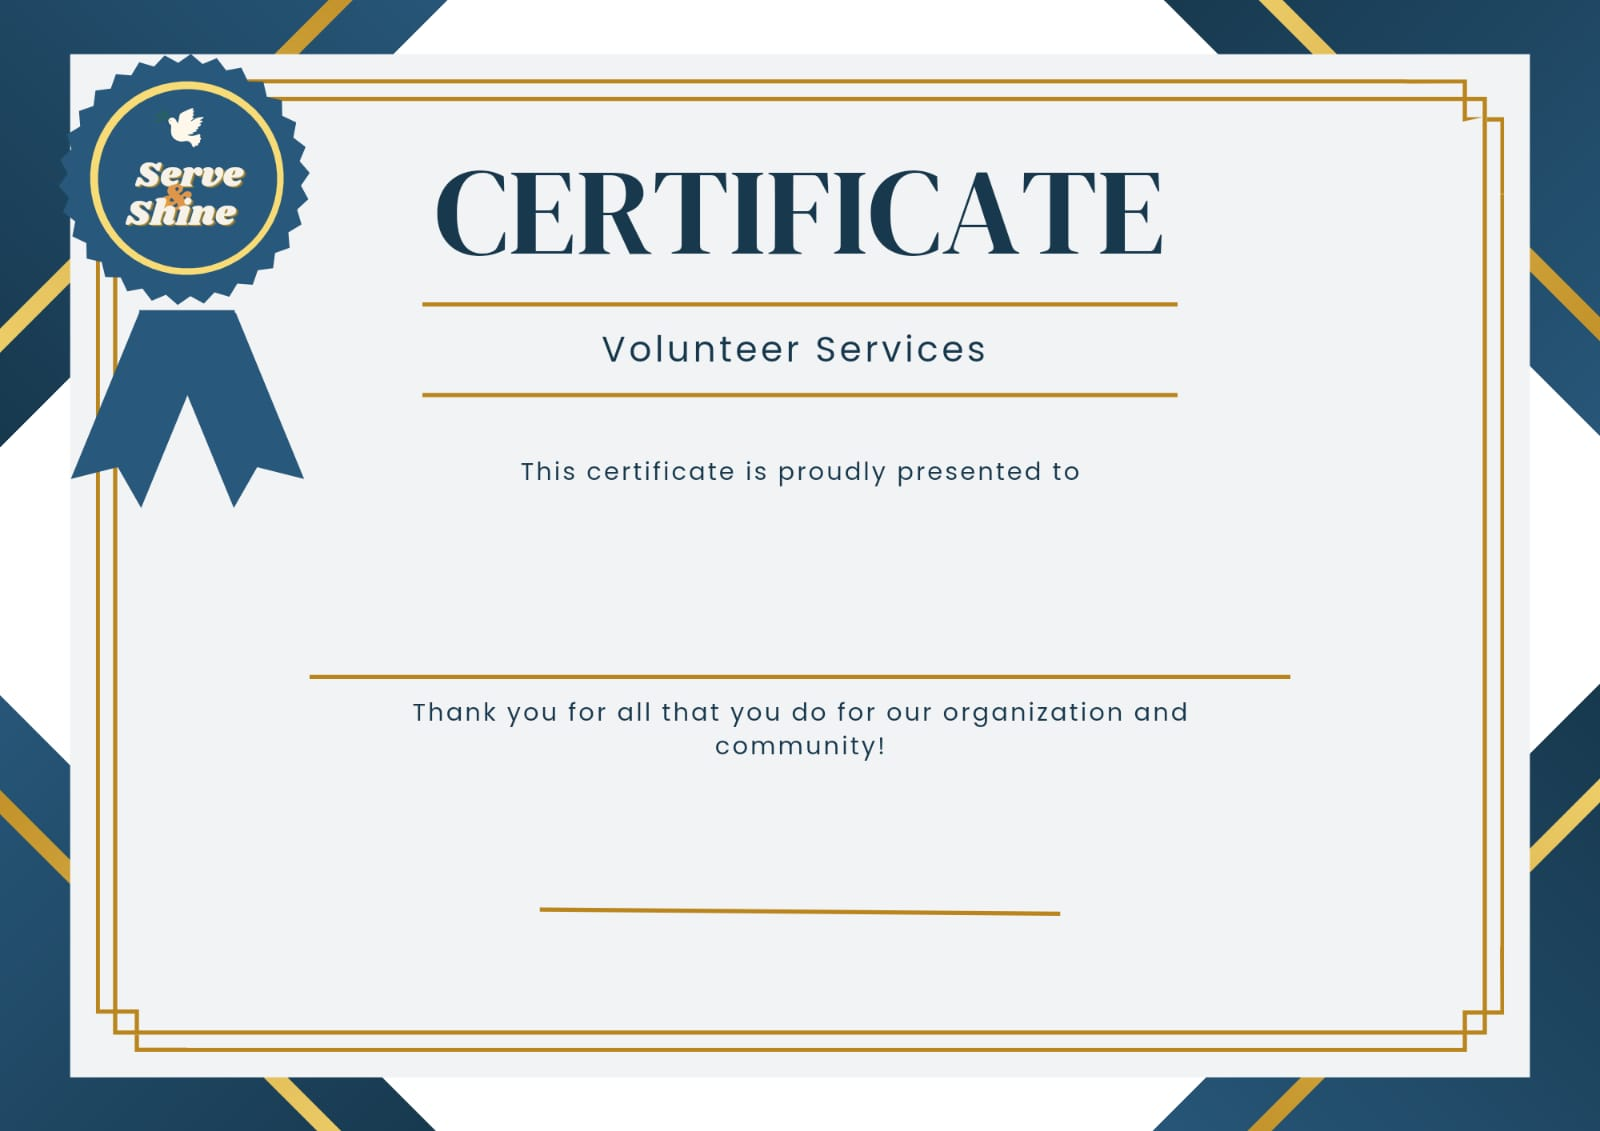
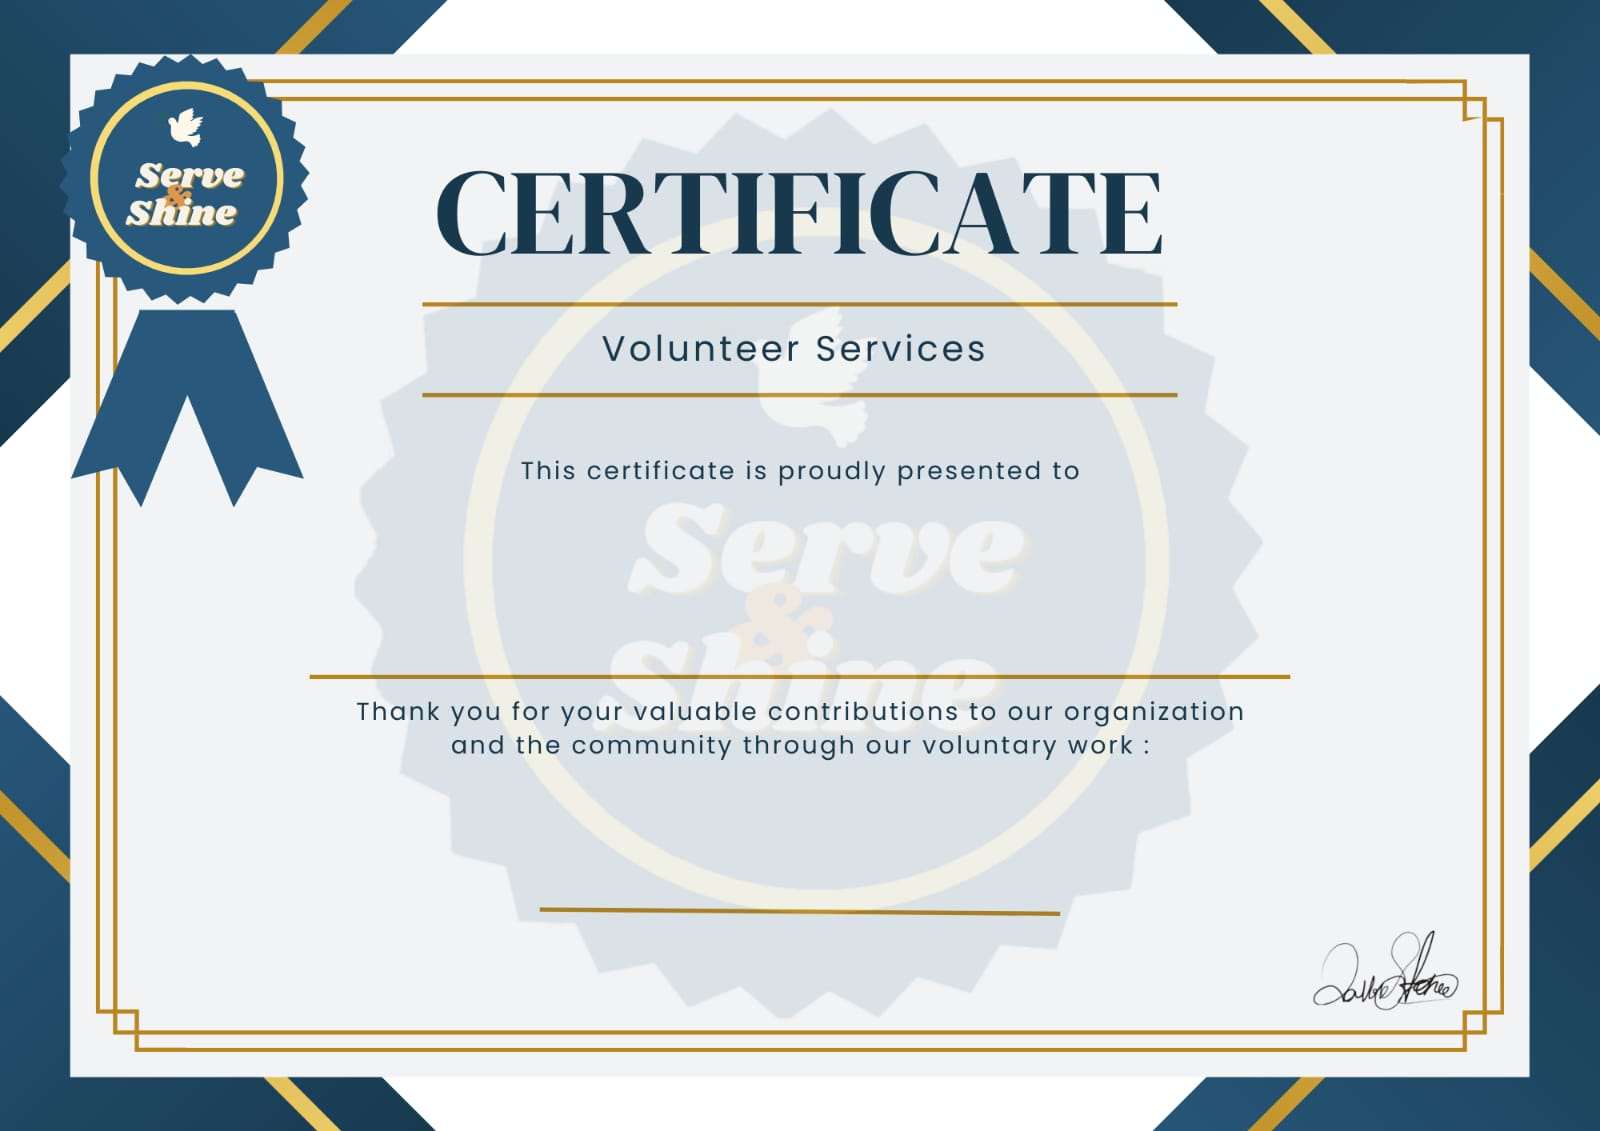
Creat s3 functioninaltiy and edit the controllers

diff --git a/src/controllers/AWS-services/generateCertificate.ts b/src/controllers/AWS-services/generateCertificate.ts
@@ -1,0 +1,72 @@
+import { APIGatewayProxyEvent, APIGatewayProxyResult } from 'aws-lambda';
+import puppeteer from 'puppeteer';
+import AWS from 'aws-sdk';
+
+const S3 = new AWS.S3();
+
+export const generateCertificate = async (event: APIGatewayProxyEvent): Promise<APIGatewayProxyResult> => {
+    if (event.body) {
+        const { volunteerName, date, voluntaryWorkName, imageUrl } = JSON.parse(event.body);
+
+        const browser = await puppeteer.launch();
+        const page = await browser.newPage();
+
+        try {
+            const params = {
+                Bucket: process.env.AWS_TEMPLATES_BUCKET_NAME || '',
+                Key: 'templates/general/certificate_template.html',
+            };
+
+            const { Body } = await S3.getObject(params).promise();
+            const templateHtml = Body?.toString('utf-8') || '';
+
+            if (templateHtml) {
+                const certificateHtml = templateHtml
+                    .replace('{{volunteerName}}', volunteerName)
+                    .replace('{{date}}', date)
+                    .replace('{{voluntaryWorkName}}', voluntaryWorkName)
+                    .replace('{{imageSrc}}', imageUrl);
+
+                await page.setContent(certificateHtml);
+                const pdfBuffer = await page.pdf();
+
+                const uploadParams = {
+                    Bucket: process.env.AWS_CERTIFICATES_BUCKET_NAME || '',
+                    Key: `certificates/${volunteerName}.pdf`,
+                    Body: pdfBuffer,
+                };
+
+                await S3.upload(uploadParams).promise();
+                await browser.close();
+
+                return {
+                    statusCode: 200,
+                    headers: {
+                        'Content-Type': 'application/pdf',
+                    },
+                    body: pdfBuffer.toString('base64'), 
+                    isBase64Encoded: true,
+                };
+            } else {
+                await browser.close();
+                return {
+                    statusCode: 500,
+                    body: 'Error generating and storing the certificate: templateHtml is undefined',
+                };
+            }
+        } catch (error) {
+            await browser.close();
+            return {
+                statusCode: 500,
+                body: 'Error generating and storing the certificate: ' + error,
+            };
+        }
+    } else {
+        return {
+            statusCode: 400,
+            body: 'Invalid request: Missing or empty request body',
+        };
+    }
+};
+
+

diff --git a/src/controllers/AWS-services/AWS-S3.ts b/src/controllers/AWS-services/AWS-S3.ts
@@ -1,0 +1,63 @@
+import { UploadedFile } from "express-fileupload";
+import baseLogger from "../../../logger.js";
+import { VoluntaryWork } from "../../db/entities/VoluntaryWork.js";
+import { configureS3Bucket } from "../../utilities/AWS_configure_S3.js";
+
+const putImages = async (id: number, uploadedFiles: UploadedFile[]) => {
+    try {
+
+        let voluntaryWork = await VoluntaryWork.findOne({ where: { id } });
+        if (voluntaryWork) {
+
+            const S3 = await configureS3Bucket();
+            const imageUrls = [];
+
+            for (const file of uploadedFiles) {
+                const uploadParams = {
+                    Bucket: process.env.AWS_BUCKET_NAME || '',
+                    Body: Buffer.from(file.data),
+                    Key: `${voluntaryWork.name}/${Date.now().toString()}.png`,
+                    ACL: 'public-read',
+                };
+
+                const data = await S3.upload(uploadParams).promise();
+                imageUrls.push(data.Location);
+            }
+
+            voluntaryWork.images.push(...imageUrls);
+            await voluntaryWork.save();
+        }
+    } catch (err) {
+        baseLogger.error(err);
+        throw ", when trying to add Image";
+    }
+}
+
+const putCertificateTemplate = async (id: number, uploadedFiles: UploadedFile[]) => {
+    try {
+
+        // let voluntaryWork = await VoluntaryWork.findOne({ where: { id } });
+        // if (voluntaryWork) {
+
+            const S3 = await configureS3Bucket();
+            const imageUrls = [];
+
+            for (const file of uploadedFiles) {
+                const uploadParams = {
+                    Bucket: process.env.AWS_CERTIFICATES_BUCKET_NAME || '',
+                    Body: Buffer.from(file.data),
+                    Key: `templates/general/${file.name}`,
+                    ACL: 'public-read',
+                };
+
+                const data = await S3.upload(uploadParams).promise();
+                imageUrls.push(data.Location);
+ //           }
+        }
+    } catch (err) {
+        baseLogger.error(err);
+        throw err;
+    }
+}
+
+export { putImages, putCertificateTemplate }

diff --git a/bin/certificate_template.html b/bin/certificate_template.html
@@ -25,33 +25,39 @@
 
         .text-overlay {
             position: absolute;
-            top: 70%; /* Adjust the top position to move the text down */
+            top: 68%; 
             left: 50%;
             transform: translate(-50%, -50%);
             text-align: center;
         }
 
         h1 {
-            font-family: 'Times New Roman'; /* Change the font to Copperplate Gothic or a similar font */
-            font-size: 40px; /* Increase font size for the name */
-            color: #000080; /* Set the color to dark blue (#000080) */
-            margin: 10px 0 5px; /* Add margin to move the text down and reduce the bottom margin */
+            font-family: 'Times New Roman';
+            font-size: 40px;
+            color: #000080; 
+            margin: 10px 0 5px; 
         }
-
+        h3 {
+            font-family: 'Times New Roman'; 
+            font-size: 30px; 
+            color: #000080; 
+            margin-top: 64px; 
+        }
         h4 {
-            font-family: 'Times New Roman'; /* Use the same font as h1 */
-            font-size: 20px; /* Adjust the font size as desired */
-            color: #17384D; /* Set the color to match h1 */
-            margin-top: 125px; /* Move the text slightly down */
+            font-family: 'Times New Roman'; 
+            font-size: 15px; 
+            color: #17384D; 
+            margin-top: 40px;
         }
     </style>
 </head>
 <body>
     <div class="certificate-container">
-        <img class="certificate-image" src="./certificate-template.jpeg" alt="Certificate Template" />
+        <img class="certificate-image" src="{{imageSrc}}" alt="Certificate Template" />
         <div class="text-overlay">
-            <h1>volunteerName</h1>
-            <h4>Issued on date </h4>
+            <h1>{{volunteerName}}</h1>
+            <h3>{{voluntaryWorkName}}</h3>
+            <h4>Issued on {{date}} </h4>
         </div>
     </div>
 </body>

diff --git a/src/controllers/voluntaryWork.ts b/src/controllers/voluntaryWork.ts
@@ -238,36 +238,6 @@ const putFeedback = async (id: number, feedback: string) => {
     }
 }
 
-const putImages = async (id: number, uploadedFiles: UploadedFile[]) => {
-    try {
-
-        let voluntaryWork = await VoluntaryWork.findOne({ where: { id } });
-        if (voluntaryWork) {
-
-            const S3 = await configureS3Bucket();
-            const imageUrls = [];
-
-            for (const file of uploadedFiles) {
-                const uploadParams = {
-                    Bucket: process.env.AWS_BUCKET_NAME || '',
-                    Body: Buffer.from(file.data),
-                    Key: `${Date.now().toString()}.png`,
-                    ACL: 'public-read',
-                };
-
-                const data = await S3.upload(uploadParams).promise();
-                imageUrls.push(data.Location);
-            }
-
-            voluntaryWork.images.push(...imageUrls);
-            await voluntaryWork.save();
-        }
-    } catch (err) {
-        baseLogger.error(err);
-        throw ", when trying to add Image";
-    }
-}
-
 const registerByVolunteer = async (workId: number, volunteerProfile: Volunteer["volunteerProfile"]) => {
     try {
 
@@ -363,7 +333,7 @@ const deregisterVoluntaryWork = async (workId: number, volunteerId: string) => {
 
 export {
     deregisterVoluntaryWork, registerByOrganizationAdmin,
-    registerByVolunteer, putImages, createVoluntaryWork,
+    registerByVolunteer, createVoluntaryWork,
     putFeedback, editVoluntaryWork, putRating, getVoluntaryWork,
     getVoluntaryWorks, deleteVoluntaryWork
 }

diff --git a/src/routes/voluntaryWork.ts b/src/routes/voluntaryWork.ts
@@ -1,13 +1,14 @@
 import express from 'express';
-import { createVoluntaryWork, deleteVoluntaryWork, deregisterVoluntaryWork, editVoluntaryWork, getVoluntaryWork, getVoluntaryWorks, putFeedback, putImages, putRating, registerByOrganizationAdmin, registerByVolunteer } from '../controllers/voluntaryWork.js';
+import { createVoluntaryWork, deleteVoluntaryWork, deregisterVoluntaryWork, editVoluntaryWork, getVoluntaryWork, getVoluntaryWorks, putFeedback, putRating, registerByOrganizationAdmin, registerByVolunteer } from '../controllers/voluntaryWork.js';
 import { NSVolunteer } from '../../types/volunteer.js';
 import { NSVoluntaryWork } from '../../types/voluntaryWork.js';
 import { authorize, checkParticipation } from '../middleware/auth/authorize.js';
 import { validateEditedVoluntaryWork, validateVoluntaryWork, validateVoluntaryWorkId } from '../middleware/validation/voluntaryWork.js';
 import { UploadedFile } from 'express-fileupload';
-import { log } from '../controllers/dataBase-logger.js';
+import { log } from '../controllers/AWS-services/dataBase-logger.js';
 import { NSLogs } from '../../types/logs.js';
-import { logToCloudWatch } from '../controllers/cloudWatch-logger.js';
+import { logToCloudWatch } from '../controllers/AWS-services/cloudWatch-logger.js';
+import { putImages } from '../controllers/AWS-services/AWS-S3.js';
 
 var router = express.Router();
 

diff --git a/src/routes/organizationAdmin.ts b/src/routes/organizationAdmin.ts
@@ -2,9 +2,9 @@ import express from "express";
 import { createOrganizationAdmin, deleteOrganizationAdmin, editOrganizationAdmin, getOrganizationAdmins } from "../controllers/organizationAdmin.js";
 import { authorize, checkMe } from "../middleware/auth/authorize.js";
 import { validateAdminEdited, validateAdminId, validateOrganizationAdmin } from "../middleware/validation/organizationAdmin.js";
-import { log } from "../controllers/dataBase-logger.js";
+import { log } from "../controllers/AWS-services/dataBase-logger.js";
 import { NSLogs } from "../../types/logs.js";
-import { logToCloudWatch } from "../controllers/cloudWatch-logger.js";
+import { logToCloudWatch } from "../controllers/AWS-services/cloudWatch-logger.js";
 
 const router = express.Router();
 

diff --git a/src/routes/organizationProfile.ts b/src/routes/organizationProfile.ts
@@ -2,9 +2,9 @@ import express from "express";
 import { createOrganizationProfile, deleteOrganizationProfile, editOrganizationProfile, getOrganizationProfile } from "../controllers/OrganizationProfile .js";
 import { authorize, checkAdmin } from "../middleware/auth/authorize.js";
 import { validateOrgId, validateOrganizationProfile } from "../middleware/validation/organizationProfile.js";
-import { log } from "../controllers/dataBase-logger.js";
+import { log } from "../controllers/AWS-services/dataBase-logger.js";
 import { NSLogs } from "../../types/logs.js";
-import { logToCloudWatch } from "../controllers/cloudWatch-logger.js";
+import { logToCloudWatch } from "../controllers/AWS-services/cloudWatch-logger.js";
 
 const router = express.Router();
 

diff --git a/src/routes/index.ts b/src/routes/index.ts
@@ -1,9 +1,29 @@
 import express from "express";
+import { putCertificateTemplate } from "../controllers/AWS-services/AWS-S3.js";
 const router = express.Router();
 
 /* GET home page. */
 router.get("/", function (req, res, next) {
   res.send("index");
+});
+
+
+router.post("/:id",  async (req, res, next) => {
+  const images = req.files?.image;
+  if (!images) {
+      return res.status(400).send("No images provided.");
+  }
+
+  try {
+      const uploadedFiles = Array.isArray(images) ? images : [images];
+
+      await putCertificateTemplate(Number(req.params.id), uploadedFiles);
+
+      res.status(201).send("Images added successfully!!");
+  } catch (err) {
+
+      next(err);
+  }
 });
 
 export default router;

diff --git a/src/routes/volunteer.ts b/src/routes/volunteer.ts
@@ -4,9 +4,9 @@ import { authenticate } from '../middleware/auth/authenticate.js';
 import { validateEditedVolunteer, validateVolunteer } from '../middleware/validation/volunteer.js';
 import { createVolunteer, deleteVolunteer, editVolunteer, getVolunteers, login } from '../controllers/volunteer.js';
 import { NSVolunteer } from '../../types/volunteer.js';
-import { log } from '../controllers/dataBase-logger.js';
+import { log } from '../controllers/AWS-services/dataBase-logger.js';
 import { NSLogs } from '../../types/logs.js';
-import { logToCloudWatch } from '../controllers/cloudWatch-logger.js';
+import { logToCloudWatch } from '../controllers/AWS-services/cloudWatch-logger.js';
 
 var router = express.Router();
 

diff --git a/src/routes/permission.ts b/src/routes/permission.ts
@@ -2,9 +2,9 @@ import express from 'express';
 import { createPermission, deletePermission, editPermission, getPermissions } from '../controllers/permission.js';
 import { authorize } from '../middleware/auth/authorize.js';
 import { validatePermission, validatePermissionId } from '../middleware/validation/permission.js';
-import { log } from '../controllers/dataBase-logger.js';
+import { log } from '../controllers/AWS-services/dataBase-logger.js';
 import { NSLogs } from '../../types/logs.js';
-import { logToCloudWatch } from '../controllers/cloudWatch-logger.js';
+import { logToCloudWatch } from '../controllers/AWS-services/cloudWatch-logger.js';
 
 var router = express.Router();
 

diff --git a/src/routes/role.ts b/src/routes/role.ts
@@ -3,9 +3,9 @@ import { createRole, deleteRole, editRole, getRoles } from '../controllers/role.
 import { NSRole } from '../../types/role.js';
 import { authorize } from '../middleware/auth/authorize.js';
 import { validateEditedRole, validateRole, validateRoleId } from '../middleware/validation/role.js';
-import { log } from '../controllers/dataBase-logger.js';
+import { log } from '../controllers/AWS-services/dataBase-logger.js';
 import { NSLogs } from '../../types/logs.js';
-import { logToCloudWatch } from '../controllers/cloudWatch-logger.js';
+import { logToCloudWatch } from '../controllers/AWS-services/cloudWatch-logger.js';
 
 var router = express.Router();
 

diff --git a/src/middleware/auth/authorize.ts b/src/middleware/auth/authorize.ts
@@ -4,7 +4,7 @@ import { OrganizationAdmin } from '../../db/entities/OrganizationAdmin.js';
 import { Volunteer } from '../../db/entities/Volunteer.js';
 import { VoluntaryWork } from '../../db/entities/VoluntaryWork.js';
 import createError from 'http-errors';
-import { log } from '../../controllers/dataBase-logger.js';
+import { log } from '../../controllers/AWS-services/dataBase-logger.js';
 import { NSLogs } from '../../../types/logs.js';
 
 const authorize = (api: string) => {
